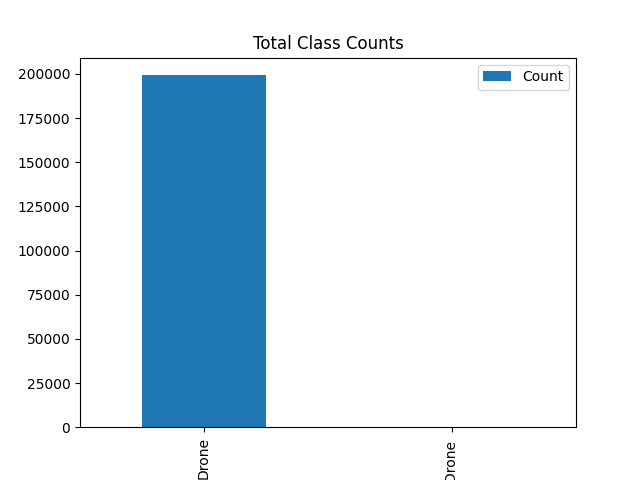
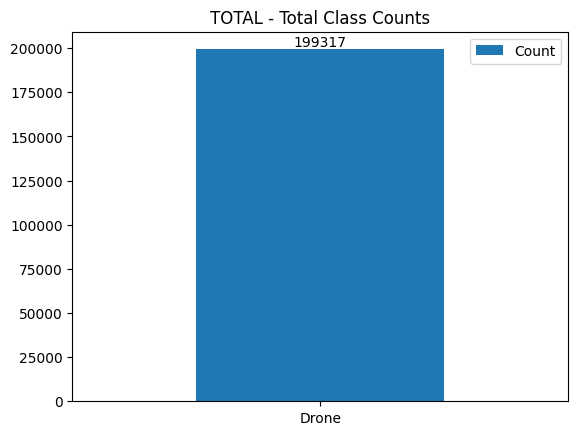
amending class distribution script to compute stats for train/test splits

diff --git a/data_prep_scripts/class_distribution_pascal_voc.py b/data_prep_scripts/class_distribution_pascal_voc.py
@@ -1,6 +1,8 @@
 """
 code for visualising the class count across the target dataset - assuming labels in Pascal VOC format
 
+code assesses class counts across the train and test splits
+
 script also saves class count data in a dynamically named directory at same root as script
 
 target dataset directories are typically: ./<dataset_name>/annotations/<video_name>/<video_frame>.xml
@@ -12,8 +14,11 @@ import pandas as pd
 import matplotlib.pyplot as plt
 import json
 import xml.etree.ElementTree as ET
-# annotations filepath
-from config import RAW_DATA_DIR, ANNOTATIONS_DIR, RECOMMENDED_CORES
+from config import RAW_DATA_DIR, ANNOTATIONS_DIR, RECOMMENDED_CORES, ARD100_TRAIN_LIST, ARD100_TEST_LIST
+
+# convert lists to sets for efficient lookups
+TRAIN_SET = set(ARD100_TRAIN_LIST)
+TEST_SET = set(ARD100_TEST_LIST)
 
 def process_single_folder(folder_path: str) -> tuple:
     # worker function to process .xml files in a single folder
@@ -38,6 +43,11 @@ def process_single_folder(folder_path: str) -> tuple:
             tree = ET.parse(file.path)
             frame_objects = [obj.findtext("name") for obj in tree.iter("object")]
 
+            # report non-drone classes
+            for obj_name in frame_objects:
+                if obj_name != "Drone":
+                    print(f"Class '{obj_name}' found in {file.path}")
+
             # update object counts
             num_objects = len(frame_objects)
             if num_objects == 0:
@@ -53,18 +63,29 @@ def process_single_folder(folder_path: str) -> tuple:
             # ignore corrupted/empty XML files
             pass
     
-    return frame_object_counts, class_counts
+    # return folder name with counts, for train/test split matching
+    return os.path.basename(folder_path), frame_object_counts, class_counts
 
 def pascal_voc_object_count(parent_folder: str) -> tuple:
     # review all .xml files in the subfolders of a given folder, and return two dictionaries:
     # - one with number of objects in each .xml frame in the directory
     # - one with number of objects in each class across entire dataset
     
-    # initialise counters
+    # initialise counters for entire dataset and train/test splits
     total_frame_object_counts = Counter({"None": 0,
                                    "Single Object": 0,
                                    "Multiple Objects": 0})
     total_class_counts = Counter()
+
+    train_frame_object_counts = Counter({"None": 0,
+                                   "Single Object": 0,
+                                   "Multiple Objects": 0})
+    train_class_counts = Counter()
+
+    test_frame_object_counts = Counter({"None": 0,
+                                   "Single Object": 0,
+                                   "Multiple Objects": 0})
+    test_class_counts = Counter()
     
     # generate list of folder paths
     folders = [folder.path for folder in os.scandir(parent_folder) if folder.is_dir()]
@@ -73,25 +94,38 @@ def pascal_voc_object_count(parent_folder: str) -> tuple:
     with concurrent.futures.ProcessPoolExecutor(max_workers = RECOMMENDED_CORES) as executor:
         results = executor.map(process_single_folder, folders)
         # aggregate results across all workers
-        for folder_frame_object_counts, folder_class_counts in results:
+        for folder_name, folder_frame_object_counts, folder_class_counts in results:
             total_frame_object_counts.update(folder_frame_object_counts)
             total_class_counts.update(folder_class_counts)
+
+            if folder_name in TRAIN_SET:
+                train_frame_object_counts.update(folder_frame_object_counts)
+                train_class_counts.update(folder_class_counts)
+            
+            elif folder_name in TEST_SET:
+                test_frame_object_counts.update(folder_frame_object_counts)
+                test_class_counts.update(folder_class_counts)
     
-    return dict(total_frame_object_counts), dict(total_class_counts)
+    return (
+        dict(total_frame_object_counts), dict(total_class_counts),
+        dict(train_frame_object_counts), dict(train_class_counts),
+        dict(test_frame_object_counts), dict(test_class_counts),
+    )
 
 if __name__ == "__main__":
-    object_count_dict, object_class_count_dict = pascal_voc_object_count(ANNOTATIONS_DIR)
+    (total_object_count_dict, total_object_class_count_dict,
+     train_object_count_dict, train_object_class_count_dict,
+     test_object_count_dict, test_object_class_count_dict) = pascal_voc_object_count(ANNOTATIONS_DIR)
 
-    print("Frame Counts:", object_count_dict)
-    print("Class Counts:", object_class_count_dict)
-
-    # Convert to DataFrames, orienting keys as the index
-    frame_object_count_df = pd.DataFrame.from_dict(object_count_dict, orient='index', columns=['Count'])
-    object_class_count_df = pd.DataFrame.from_dict(object_class_count_dict, orient='index', columns=['Count'])
-
-    # Visualise categorical data using bar charts
-    frame_object_count_plot = frame_object_count_df.plot.bar(title="Number of objects in each Frame")
-    class_count_plot = object_class_count_df.plot.bar(title="Total Class Counts")
+    print("Total Frame Counts:", total_object_count_dict)
+    print("Total Class Counts:", total_object_class_count_dict)
+    print("-" * 20)
+    print("Train Frame Counts:", train_object_count_dict)
+    print("Train Class Counts:", train_object_class_count_dict)
+    print("-" * 20)
+    print("Test Frame Counts:", test_object_count_dict)
+    print("Test Class Counts:", test_object_class_count_dict)
+    print("-" * 20)
 
     ### save data to directory
 
@@ -100,15 +134,38 @@ if __name__ == "__main__":
     save_dir = f"{dataset_name}_class_counts"
     # initialise directory
     os.makedirs(save_dir, exist_ok = True)
-    
-    # write class count dictionaries to .json
-    with open(os.path.join(save_dir, "total_frame_object_count.json"), "w") as fp:
-        json.dump(object_count_dict, fp, sort_keys = True, indent = 4)
-    with open(os.path.join(save_dir, "total_dataset_class_count.json"), "w") as fp:
-        json.dump(object_class_count_dict, fp, sort_keys = True, indent = 4)
 
-    frame_object_count_plot.get_figure().savefig(os.path.join(save_dir, "total_frame_object_count.png"))
-    class_count_plot.get_figure().savefig(os.path.join(save_dir, "total_dataset_class_count.png"))
+    # group splits into dictionary for processing
+    splits_data = {
+        "total": (total_object_count_dict, total_object_class_count_dict),
+        "train": (train_object_count_dict, train_object_class_count_dict),
+        "test": (test_object_count_dict, test_object_class_count_dict)
+    }
+
+    # iterate through each split to generate pandas dataframes, plots, and .json
+    for split_prefix, (frame_dict, class_dict) in splits_data.items():
+        
+        # write class count dictionaries to .json
+        with open(os.path.join(save_dir, f"{split_prefix}_object_count.json"), "w") as fp:
+            json.dump(frame_dict, fp, sort_keys = True, indent = 4)
+        with open(os.path.join(save_dir, f"{split_prefix}_dataset_class_count.json"), "w") as fp:
+            json.dump(class_dict, fp, sort_keys = True, indent = 4)
+
+        # convert to dataframes, orienting keys as the index
+        frame_object_count_df = pd.DataFrame.from_dict(frame_dict, orient='index', columns=['Count'])
+        object_class_count_df = pd.DataFrame.from_dict(class_dict, orient='index', columns=['Count'])
+
+        # visualise data using bar plots
+        frame_object_count_plot = frame_object_count_df.plot.bar(title=f"{split_prefix.upper()} - Objects per Frame", rot=0)
+        class_count_plot = object_class_count_df.plot.bar(title=f"{split_prefix.upper()} - Total Class Counts", rot=0)
+
+        # add count labels to bar plots
+        frame_object_count_plot.bar_label(frame_object_count_plot.containers[0])
+        class_count_plot.bar_label(class_count_plot.containers[0])
+
+        # save plots to directory
+        frame_object_count_plot.get_figure().savefig(os.path.join(save_dir, f"{split_prefix}_frame_object_count.png"), bbox_inches="tight")
+        class_count_plot.get_figure().savefig(os.path.join(save_dir, f"{split_prefix}_dataset_class_count.png"), bbox_inches="tight")
 
     # Display the plots
     plt.show()
